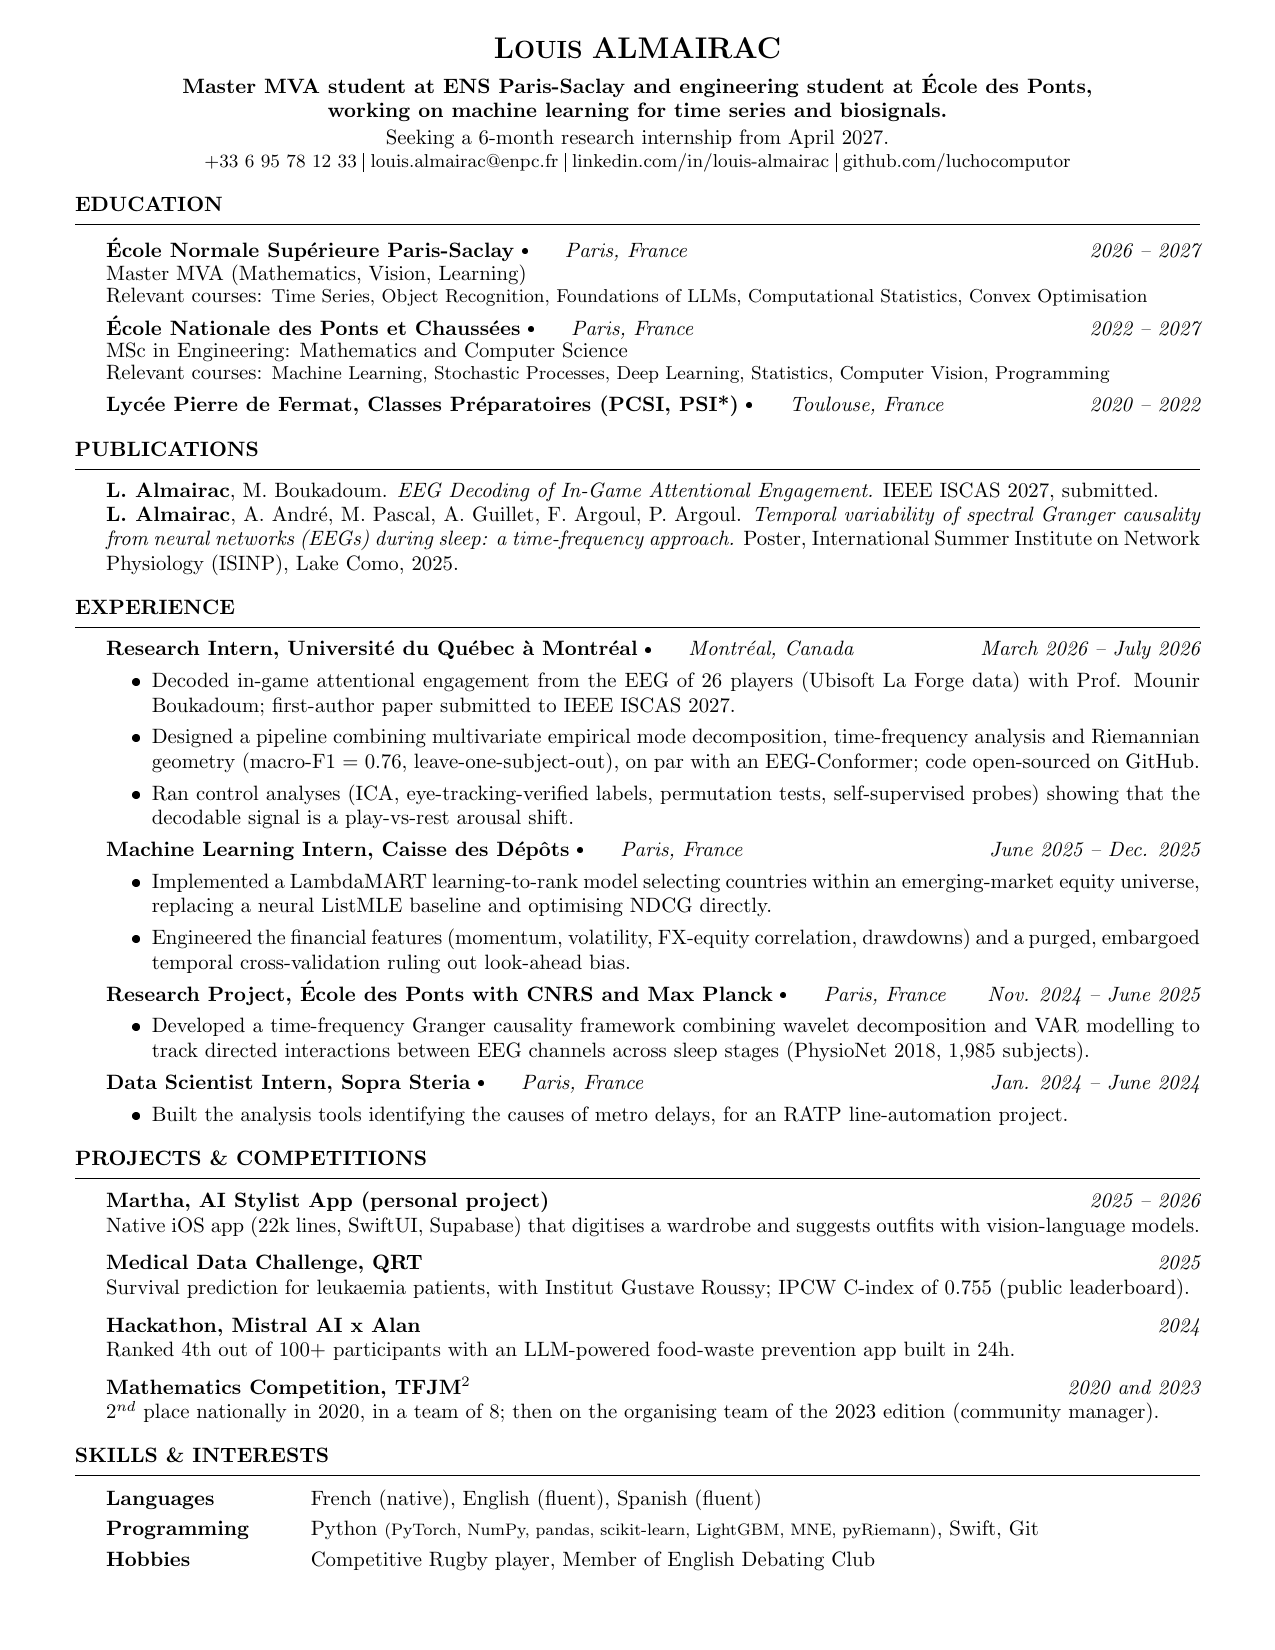
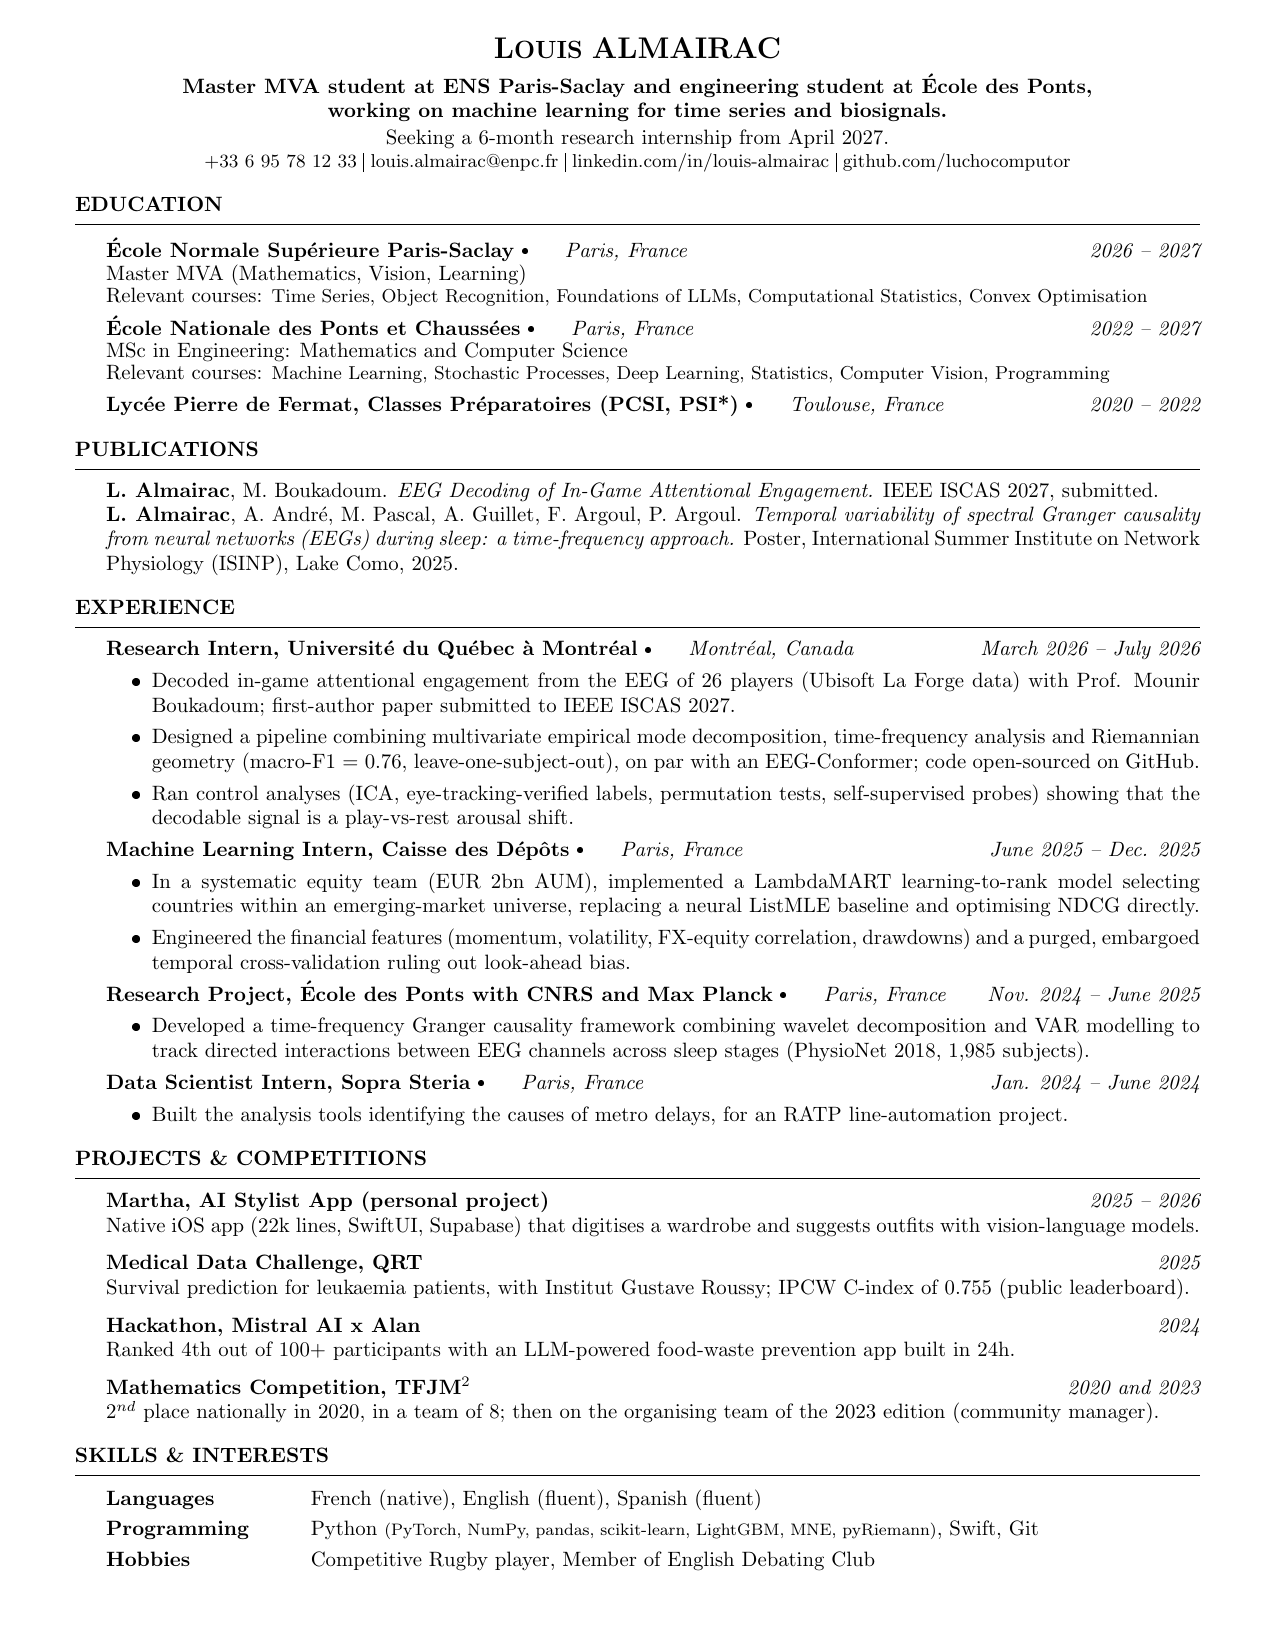
CV : stage Caisse des Depots, equipe de gestion systematique (EUR 2bn AUM)

Changed region(s): [[0.1224, 0.5255, 0.9482, 0.5564]]

diff --git a/cv.tex b/cv.tex
@@ -106,7 +106,7 @@ Master MVA student at ENS Paris-Saclay and engineering student at École des Pon
 
 {\bf Machine Learning Intern, Caisse des Dépôts} \raisebox{0.2ex}{\scriptsize \textbullet} {\em  \hspace{1em} Paris, France} \hfill {\em June 2025 -- Dec. 2025} 
 \begin{itemize}
-    \item Implemented a LambdaMART learning-to-rank model selecting countries within an emerging-market equity universe, replacing a neural ListMLE baseline and optimising NDCG directly.
+    \item In a systematic equity team (EUR~2bn AUM), implemented a LambdaMART learning-to-rank model selecting countries within an emerging-market universe, replacing a neural ListMLE baseline and optimising NDCG directly.
     \item Engineered the financial features (momentum, volatility, FX-equity correlation, drawdowns) and a purged, embargoed temporal cross-validation ruling out look-ahead bias.
 \end{itemize}
 
